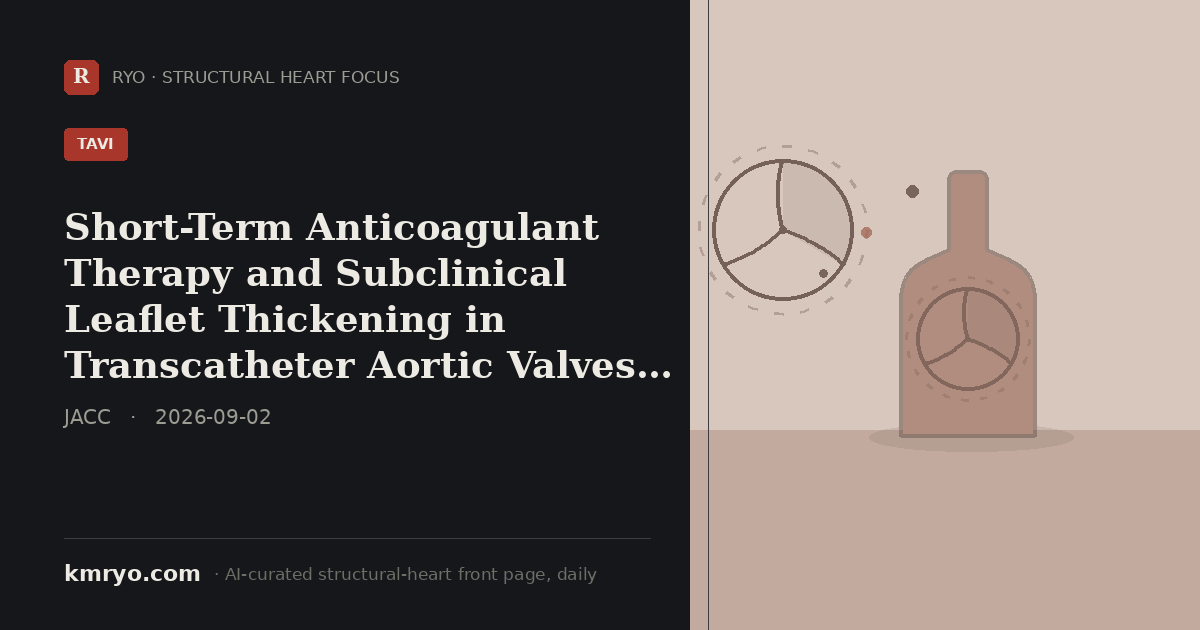
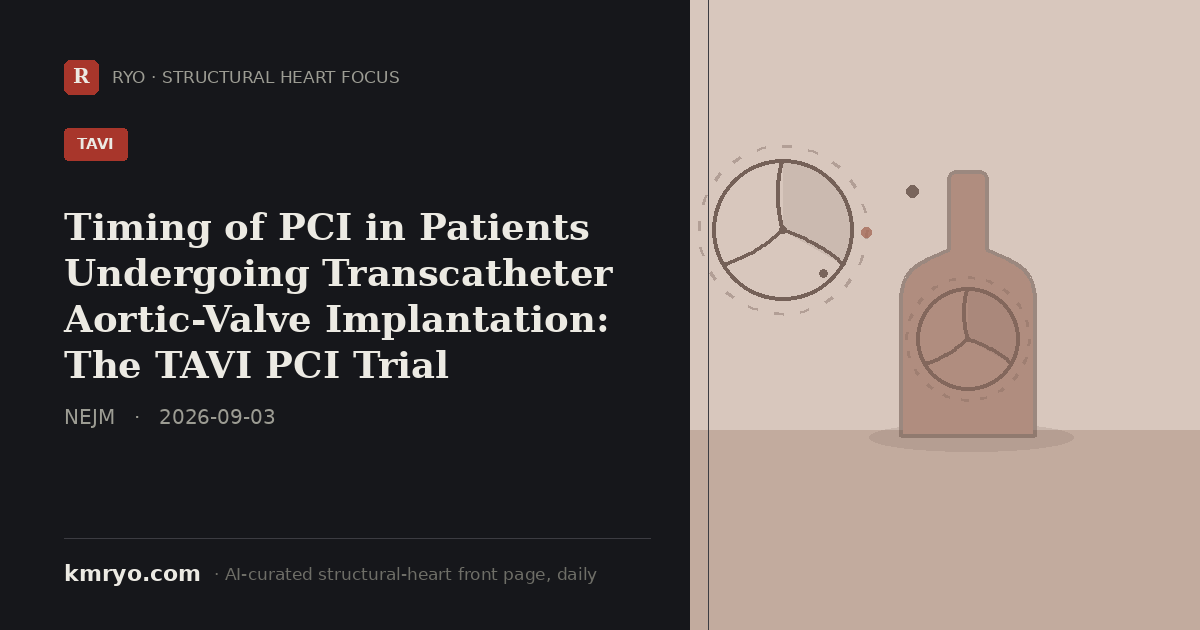
pulse: 2026-09-03 daily update
Claude-Session: https://claude.ai/code/session_01G6yHcqoZ59yhHWDGZmcHQC

Changed region(s): [[0.0308, 0.3317, 0.555, 0.6032], [0.1233, 0.6333, 0.2467, 0.6937], [0.0617, 0.6333, 0.0925, 0.6937]]

diff --git a/index.html b/index.html
@@ -6,8 +6,8 @@
 <title>Structural Heart Focus — Daily | Dr. Mi Chen · 千觅量子 RYO</title>
 <meta name="description" content="Structural Heart Focus — the day's most important structural-heart reading (top journals, major meetings and the field's conversation), curated daily by an AI agent from inside the Zurich hybrid room. By Dr. Mi Chen · 千觅量子 RYO.">
 <!-- Social share card. Regenerated daily by the pulse agent (pulse/make_share_card.py); og:title/description updated to the day's top story so LinkedIn/WeChat/X show today's headline, not a static portrait. -->
-<meta property="og:title" content="Short-Term Anticoagulant Therapy and Subclinical Leaflet Thickening in Transcatheter Aortic Valves: The NOTION-4 Trial">
-<meta property="og:description" content="NOTION-4 (n=324): a 3-month DOAC course after TAVI nearly halved subclinical leaflet thrombosis (HALT) vs antiplatelet therapy alone (RR 0.50, 95% CI 0.36-0.70, P=0.0001).">
+<meta property="og:title" content="Timing of PCI in Patients Undergoing Transcatheter Aortic-Valve Implantation: The TAVI PCI Trial">
+<meta property="og:description" content="TAVI PCI trial (n=986): a TAVI-first strategy was noninferior to PCI-first for the 1-year composite endpoint (22.2% vs 24.2%, P<0.001 for noninferiority), with less severe bleeding.">
 <meta property="og:image" content="https://www.kmryo.com/pulse/img/share/card.png">
 <meta property="og:image:width" content="1200">
 <meta property="og:image:height" content="630">
@@ -16,8 +16,8 @@
 <meta property="og:type" content="website">
 <meta property="og:site_name" content="kmryo.com · Structural Heart Focus">
 <meta name="twitter:card" content="summary_large_image">
-<meta name="twitter:title" content="Short-Term Anticoagulant Therapy and Subclinical Leaflet Thickening in Transcatheter Aortic Valves: The NOTION-4 Trial">
-<meta name="twitter:description" content="NOTION-4 (n=324): a 3-month DOAC course after TAVI nearly halved subclinical leaflet thrombosis (HALT) vs antiplatelet therapy alone (RR 0.50, 95% CI 0.36-0.70, P=0.0001).">
+<meta name="twitter:title" content="Timing of PCI in Patients Undergoing Transcatheter Aortic-Valve Implantation: The TAVI PCI Trial">
+<meta name="twitter:description" content="TAVI PCI trial (n=986): a TAVI-first strategy was noninferior to PCI-first for the 1-year composite endpoint (22.2% vs 24.2%, P<0.001 for noninferiority), with less severe bleeding.">
 <meta name="twitter:image" content="https://www.kmryo.com/pulse/img/share/card.png">
[1 lines of base64/hex data omitted]
 <link rel="preconnect" href="https://fonts.googleapis.com">
